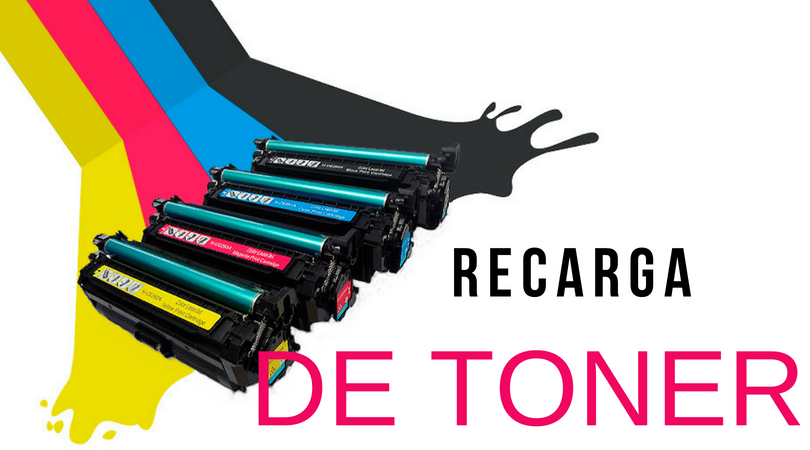
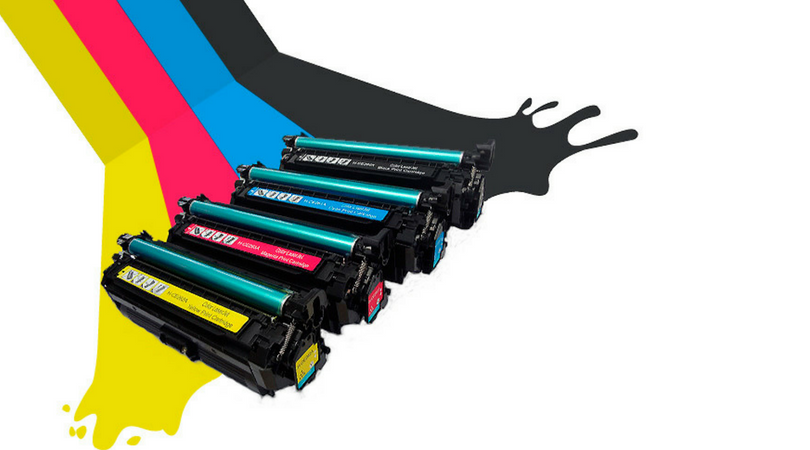
acomodando IMG

Changed region(s): [[0.0, 0.0, 0.8642, 1.0], [0.5247, 0.7778, 0.9877, 0.9644]]

diff --git a/estyle.css b/estyle.css
@@ -29,6 +29,9 @@ h2{
     left: 50%;
     transform: translate(-1%, -1%); 
 }
+.ppal{
+	font-weight: bold;
+}
 .navbar{
 	font-family: 'Montserrat', sans-serif;
 	font-size: 400;
@@ -51,8 +54,8 @@ h2{
 .trans{
 	
 	position: absolute;
-    top: 60%;
-    left: 50%;
+    top: 90%;
+    left: 70%;
     transform: translate(-50%, -50%);
 }
 .contenedor{

diff --git a/index.html b/index.html
@@ -53,6 +53,8 @@
   </nav>
   <div class="ppal p-0">
   	<img src="1.png" class="fondo img-fluid">
+    <h1 class="trans text-primary">Recarga y Venta</h1>
+    <h2 class="trans text-danger m-5">De Toner</h2>
   </div>
    <section class="title title-products m-4">
      <h3 class="text-center text-white p-5">Nuestro Producto</h3>
